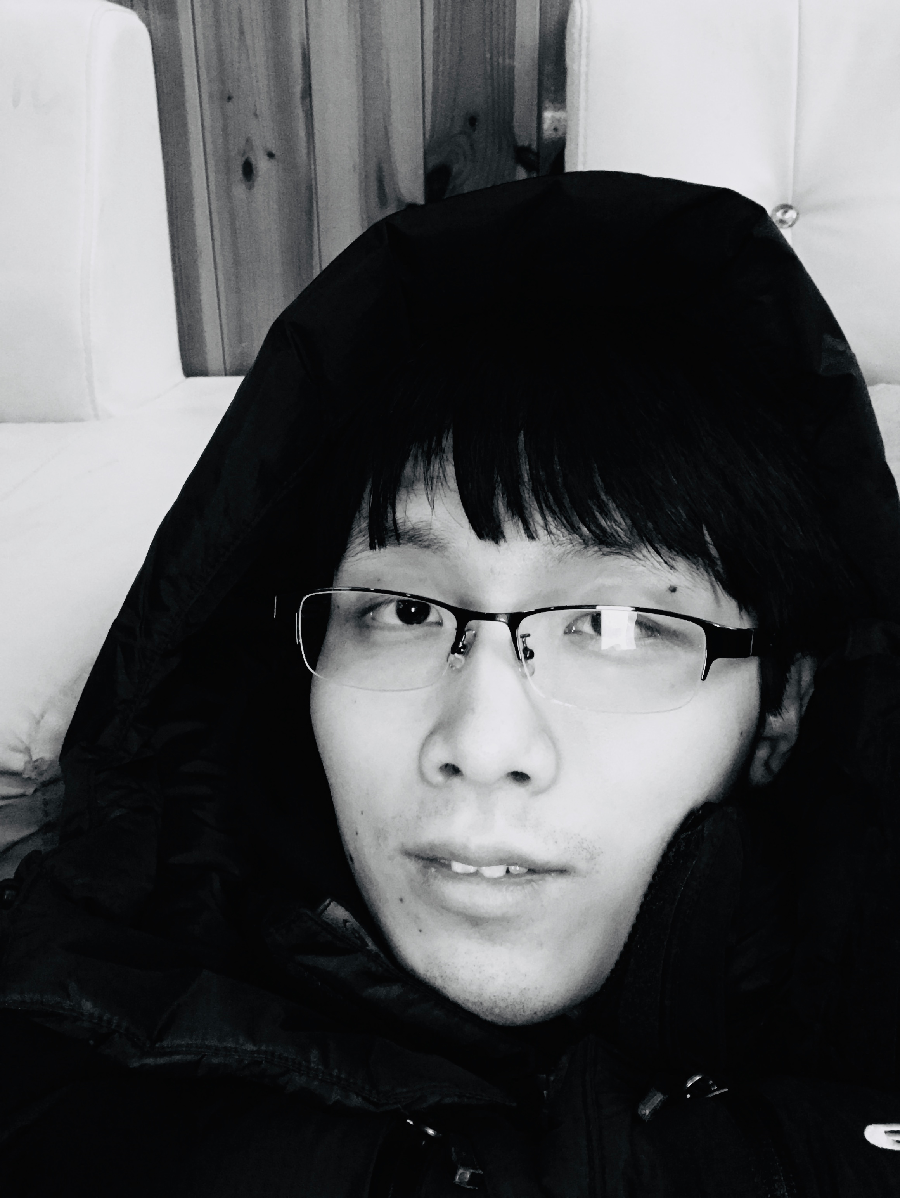
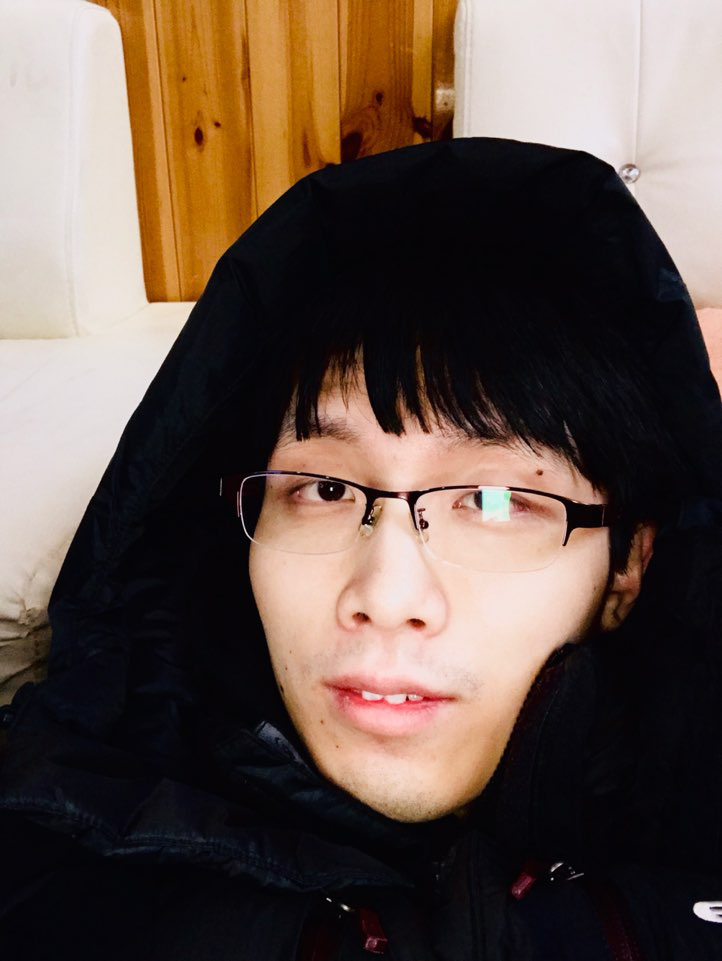
작업

diff --git a/_includes/masthead.html b/_includes/masthead.html
@@ -38,7 +38,7 @@
   <div class="masthead__teaser {% if site.teaser %}text-shadow{% endif %}" {% if site.teaser %}style="background-image: {% if site.teaser_filter %}linear-gradient(rgba(0,0,0,{{ site.teaser_filter }}), rgba(0,0,0,{{ site.teaser_filter }})), {% endif %}url({{ site.teaser }});" {% endif %}>
     <div class="inner">
       {% if author.avatar %}
-      <div class="author-avatar">
+      <div class="author-avatar {% if site.avatar_filter_gray %}grayscale{% endif %}">
         <img src="{{ author.avatar }}" alt="{{ author.name }}" itemprop="image">
       </div>
       {% endif %}

diff --git a/_sass/tidy-red/_archive.scss b/_sass/tidy-red/_archive.scss
@@ -58,6 +58,10 @@
       a {
          color: $main_color;
       }
+
+      .archive__item-content:before {
+         width: 10em;
+      }
    }
 
    &-title {
@@ -106,6 +110,7 @@
          width: 6em;
          height: 2px;
          background: $main_color;
+         transition: $standard_transition;
       }
    }
 }

diff --git a/_sass/tidy-red/_masthead.scss b/_sass/tidy-red/_masthead.scss
@@ -62,6 +62,13 @@
             width: 100%;
             height: auto;
          }
+
+         &.grayscale {
+            img {
+               -webkit-filter: grayscale(100%);
+               filter: grayscale(100%);
+            }
+         }
       }
 
       .teaser__title {
